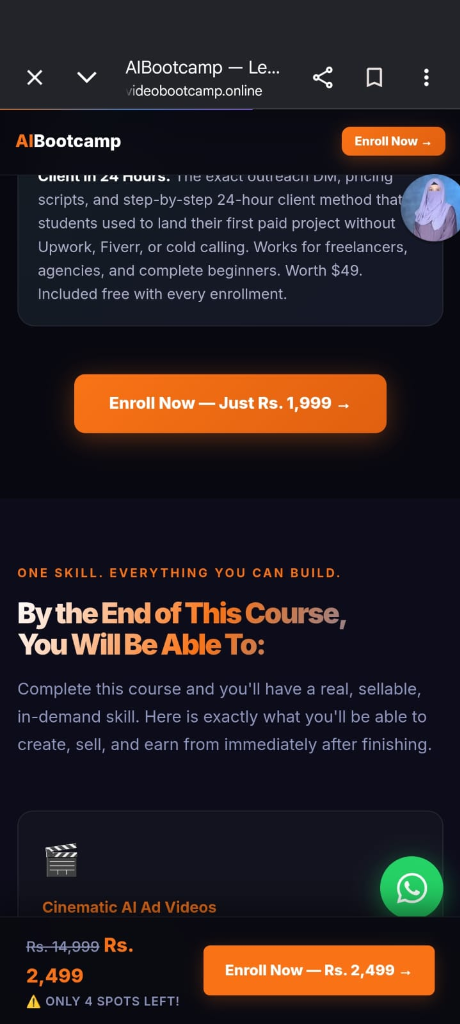
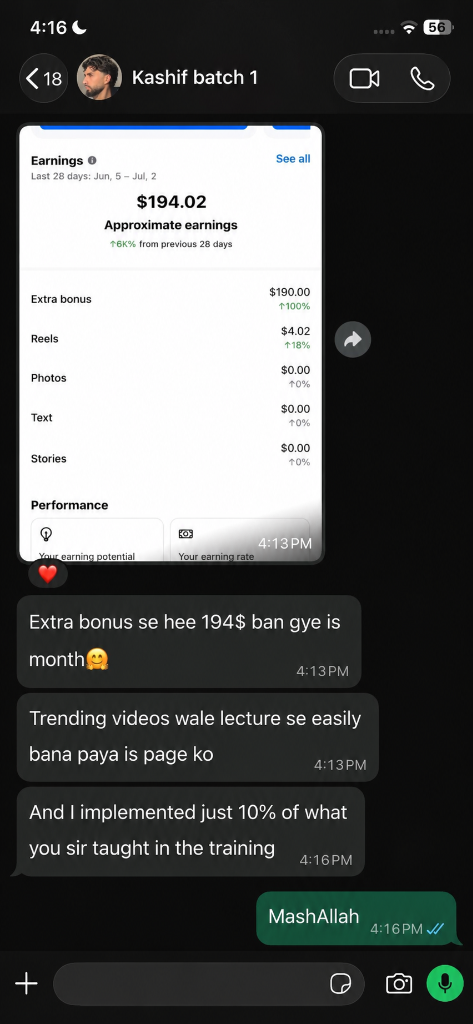
Replace website preview screenshots with real WhatsApp student chat proof images (Kashif & Nimra) in homepage.htm

diff --git a/homepage.htm b/homepage.htm
@@ -375,12 +375,13 @@
     }
     .success-card:hover { transform: translateY(-4px); box-shadow: 0 8px 32px rgba(0,0,0,0.1); }
     .success-card .ss-img-wrap {
-      border-radius: 14px; overflow: hidden; background: #0f172a;
+      border-radius: 14px; overflow: hidden; background: #0b141a;
+      max-height: 540px; display: flex; align-items: center; justify-content: center;
     }
-    .success-card img { width: 100%; display: block; object-fit: cover; }
+    .success-card img { width: 100%; height: 100%; display: block; object-fit: contain; }
     .success-card figcaption {
-      padding: 16px 4px 4px; text-align: center;
-      font-size: 0.875rem; line-height: 1.5; color: var(--muted); font-weight: 500;
+      padding: 16px 8px 8px; text-align: center;
+      font-size: 0.875rem; line-height: 1.5; color: var(--navy); font-weight: 600;
     }
 
     /* 6. MODULES */
